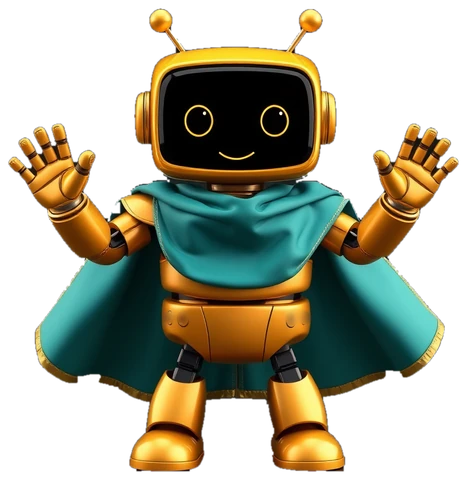
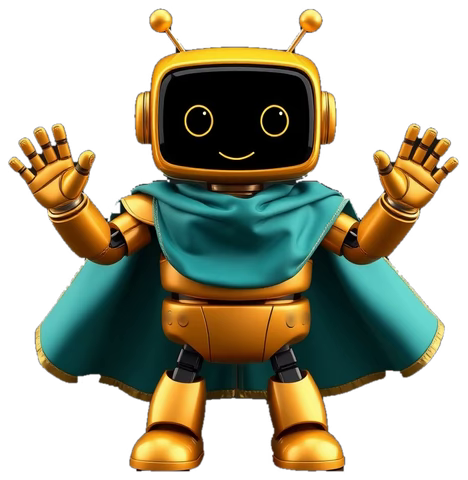
Use Graphite's frame-0 flare still, with its alpha restored
The 468×480 reexport matches webm frame 0 on every color plane. That file had alpha turned off, so the clear areas were black. The shipped still keeps those colors and the frame-0 alpha, so the cover stays transparent and lines up with the video.

diff --git a/index.html b/index.html
@@ -73,8 +73,8 @@
 
  <section class="win" aria-labelledby="h-main" id="start" tabindex="-1">
   <div class="tb" aria-hidden="true"><span class="dots"><i></i><i></i><i></i></span>mudmode</div>
-  <!-- TODO(Graphite): re-export tylerbot-flare-still.webp from webm frame 0 at 468×480 (file is 467×480; edge grain and a 1px skew). Do not put the h264 mp4 back — it has no alpha and a baked rgb(17,17,14) matte. Safari needs an HEVC-with-alpha file; libx265 here drops the alpha plane. The play-rig rest pose does not match this still (pointing hands, split feet, chest plate). -->
-  <div class="tylerbot tb-flare" aria-hidden="true" data-tyler-play="img/tylerbot/"><video muted playsinline preload="auto" poster="img/tylerbot/tylerbot-flare-still.webp" width="450" height="480"><source src="img/tylerbot/tylerbot-flare.webm" type="video/webm" media="(min-width: 1100px) and (prefers-reduced-motion: no-preference)"></video><img src="img/tylerbot/tylerbot-flare-still.webp" width="450" height="480" alt="" decoding="async"></div>
+  <!-- TODO(Graphite): still matches webm frame 0 at 468×480, including alpha. The 2026-11-05 reexport matched those color planes but had alpha off (clear areas were black); this file keeps that color and the frame-0 alpha. Do not put the h264 mp4 back. Safari still needs HEVC-with-alpha. The play-rig rest pose does not match this still (pointing hands, split feet, chest plate). -->
+  <div class="tylerbot tb-flare" aria-hidden="true" data-tyler-play="img/tylerbot/"><video muted playsinline preload="auto" poster="img/tylerbot/tylerbot-flare-still.webp?v=f468" width="450" height="480"><source src="img/tylerbot/tylerbot-flare.webm" type="video/webm" media="(min-width: 1100px) and (prefers-reduced-motion: no-preference)"></video><img src="img/tylerbot/tylerbot-flare-still.webp?v=f468" width="450" height="480" alt="" decoding="async"></div>
   <template id="tb-say" data-font="fonts/bubblegumsans-regular-latin.woff2">
    <!-- TYLERBOT LINES (edit here): only wording Brief checked and the owner ok'd -->
    <p data-id="K1a">Our crews built this site with mudmode!</p>
